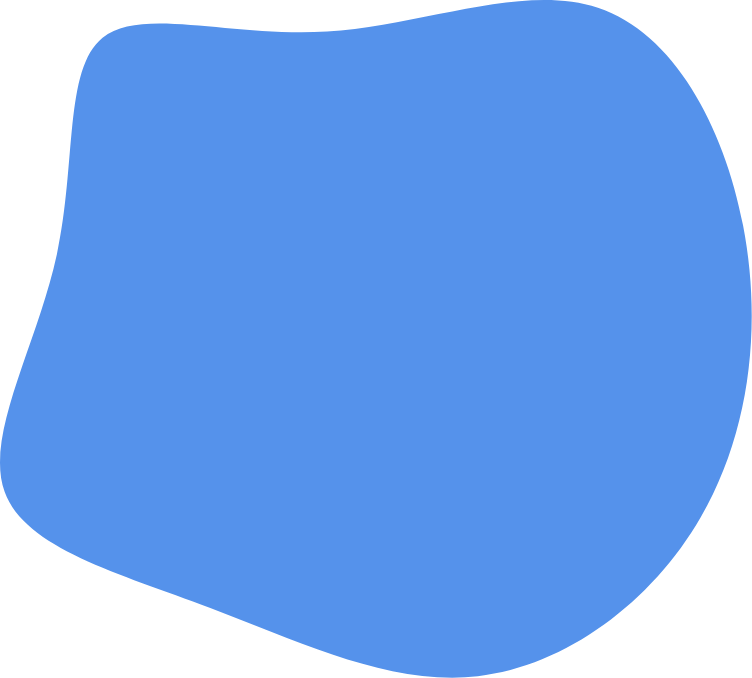
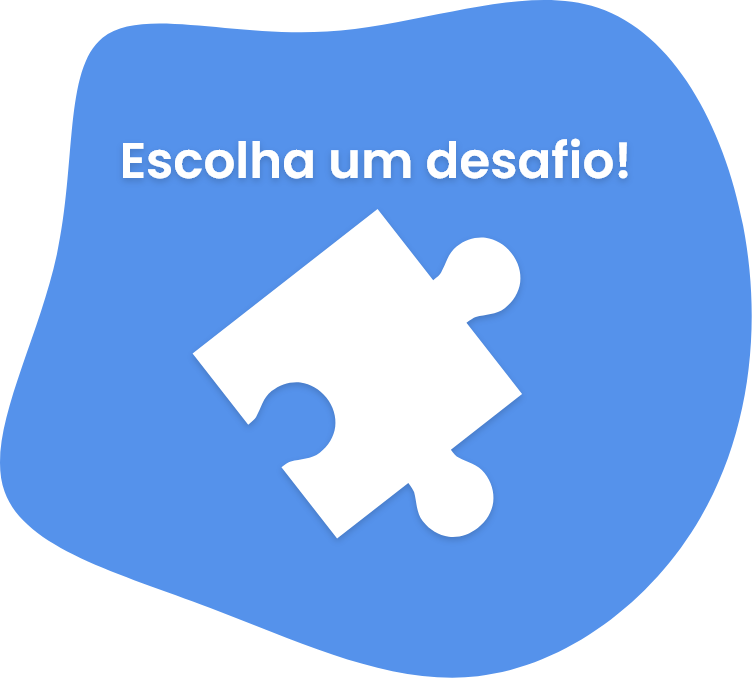
about

Changed region(s): [[0.2447, 0.3097, 0.7035, 0.8053], [0.1529, 0.1858, 0.8564, 0.2788]]

diff --git a/index.html b/index.html
@@ -75,19 +75,19 @@
         </div>
         <div class="column is-3 card">
           <div class="stripe">
-            <p class="nick">Pix3l</p>
+            <p class="nick">Codando</p>
             <a href="#" class="link">Acessar</a>
           </div>
         </div>
         <div class="column is-3 card">
           <div class="stripe">
-            <p class="nick">Pix3l</p>
+            <p class="nick">Mewbi</p>
             <a href="#" class="link">Acessar</a>
           </div>
         </div>
         <div class="column is-3 card">
           <div class="stripe">
-            <p class="nick">Pix3l</p>
+            <p class="nick">Nium</p>
             <a href="#" class="link">Acessar</a>
           </div>
         </div>
@@ -95,6 +95,31 @@
         <div class="column is-3 card">6</div>
         <div class="column is-3 card">7</div>
         <div class="column is-3 card">8</div> -->
+      </div>
+    </div>
+  </section>
+  <section class="desafios" id="desafios">
+    <div class="container">
+      <h1 class="heading">Desafios de Programação</h1>
+      <div class="container" style="margin-top: 1em">
+        <div class="columns is-centered">
+          <div class="column is-3" style="display: flex; align-items: center;">
+            <h1 class="heading">Participe dos Desafios da Comunidade</h1>
+          </div>
+          <div class="column is-3 is-offset-1" style="display: flex; align-items: center;">
+            <img id="blobChallenge" src="assets/images/blob-challenge.png" alt="Challenge Blob">
+          </div>
+        </div>
+      </div>
+    </div>
+  </section>
+  <section class="about" id="about">
+    <div class="container">
+      <div class="heading">Sobre nós</div>
+      <div class="columns is-centered" style="margin-top: 2rem;">
+        <div class="column is-5">
+          <img src="assets/images/About Blob.png" height="50%">
+        </div>
       </div>
     </div>
   </section>

diff --git a/assets/css/style.css b/assets/css/style.css
@@ -12,11 +12,11 @@ body {
 
 .heading {
   text-align: center;
-  color: #3E3A40;
+  color: #42495B;
   font-weight: 600;
   text-align: center;
   font-size: 28px;
-  text-shadow: 2px 2px 2px rgba(0, 0, 0, 0.16);
+  text-shadow: 2px 2px 2px rgba(0, 0, 0, 0.2);
 }
 
 @keyframes spinAround {
@@ -1801,7 +1801,7 @@ body {
   border-bottom: 2px solid white;
 }
 .hero .call .call--heading {
-  color: #3E3A40;
+  color: #42495B;
   font-weight: 500;
 }
 .hero .call .call--text {
@@ -1857,6 +1857,10 @@ body {
   color: white;
   font-size: 18px;
   font-weight: 500;
+}
+
+.desafios #blobChallenge {
+  height: 384px;
 }
 
 *, html, body {

diff --git a/assets/sass/utilities/variables.sass b/assets/sass/utilities/variables.sass
@@ -16,8 +16,8 @@ body
 
 .heading
   text-align: center
-  color: $text-dark
+  color: $dark
   font-weight: 600
   text-align: center
   font-size: 28px
-  text-shadow: 2px 2px 2px rgba(0, 0, 0, 0.16)
+  text-shadow: 2px 2px 2px rgba(0, 0, 0, 0.20)

diff --git a/assets/sass/components/hero.sass b/assets/sass/components/hero.sass
@@ -39,7 +39,7 @@
           border-bottom: 2px solid white
   .call
     .call--heading
-      color: $text-dark
+      color: $dark
       font-weight: 500
     .call--text
       color: $text-grey

diff --git a/assets/sass/components/_all.sass b/assets/sass/components/_all.sass
@@ -1,3 +1,4 @@
 @import "./hero"
 @import "./discord-section"
 @import "./portfolios"
+@import "./desafios"

diff --git a/assets/sass/components/desafios.sass b/assets/sass/components/desafios.sass
@@ -1,0 +1,3 @@
+.desafios
+  #blobChallenge
+    height: 384px
